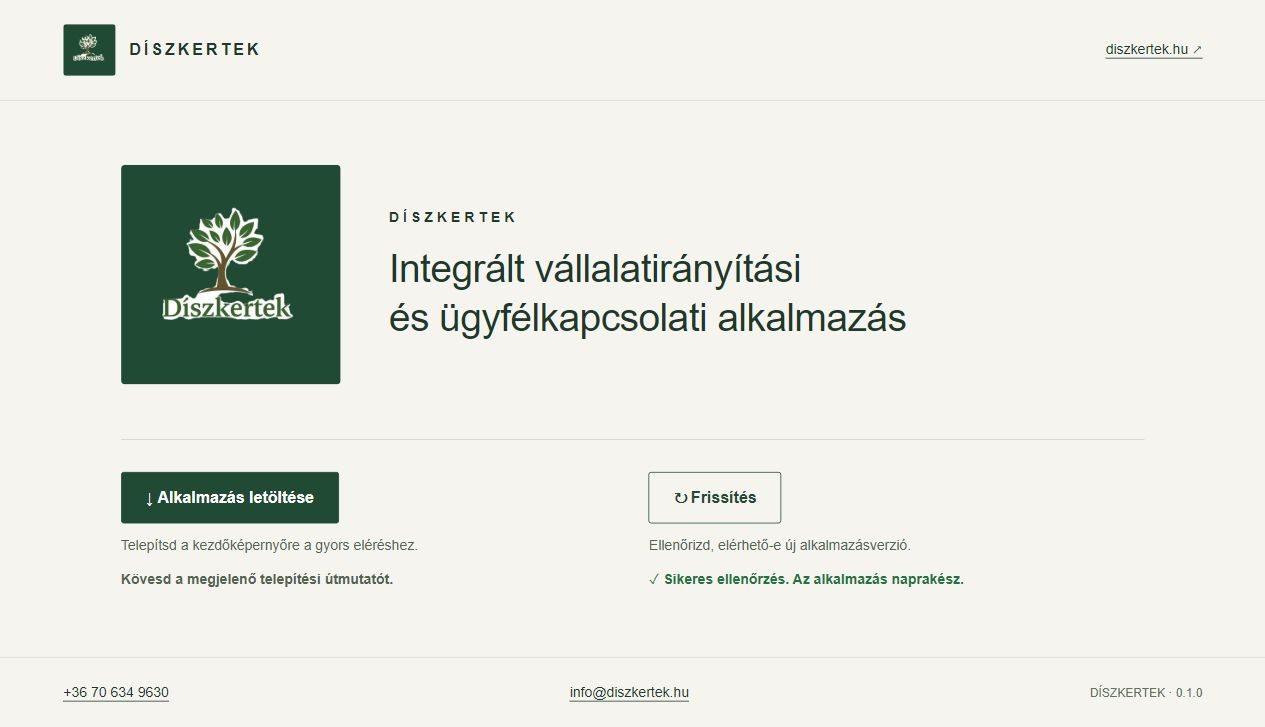
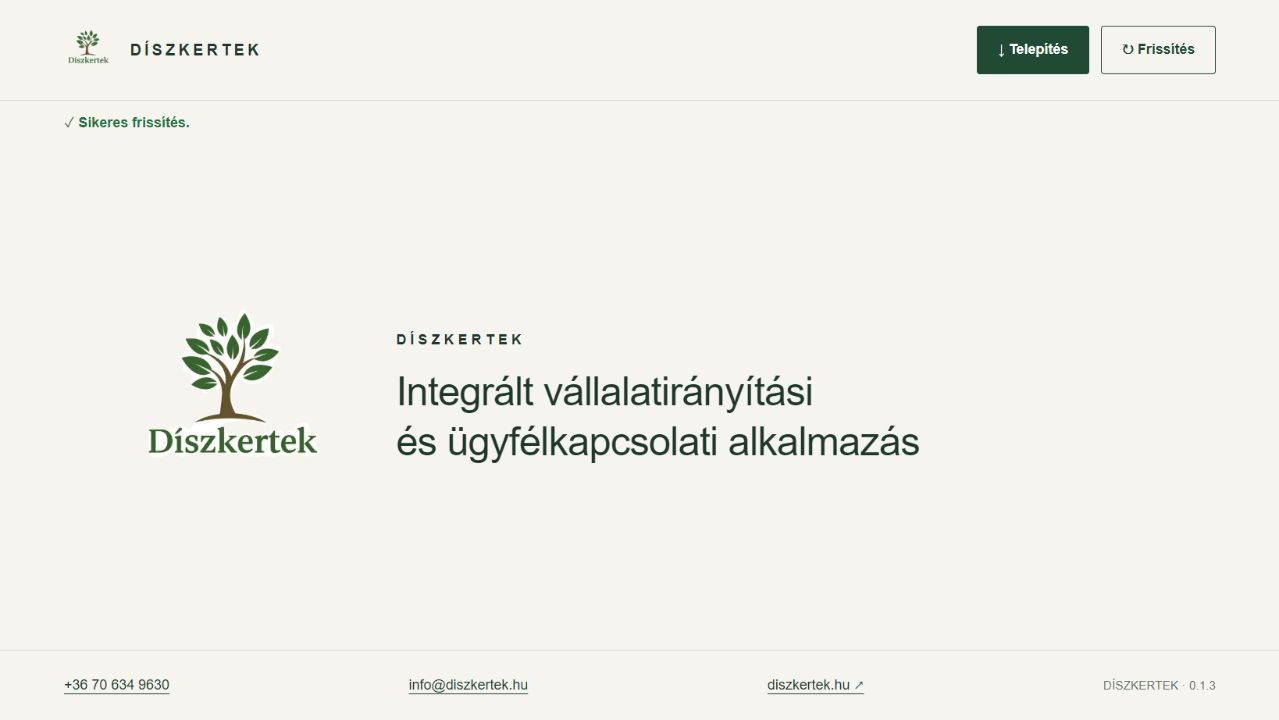
Publikus ERP 0.1.3 frissítésellenőrzés dokumentálása

diff --git a/docs/fejlesztesi-naplo.md b/docs/fejlesztesi-naplo.md
@@ -101,3 +101,5 @@ A README a nem fejlesztő olvasónak is érthető belépési pont. A részletes 
 - Ellenőrzés: sikeres TypeScript-build, 14 célzott PWA-teszt, helyi böngészőben 0.1.3 és sikeres frissítésellenőrzés, konzolhiba nélkül.
 - A natív Chrome/Edge telepítés végső próbája még nem igazolt. Az azonosítóhiba javítása és a böngésző tényleges telepítési eredménye külön ellenőrzési pont.
 - A jelen változtatás kizárólag az ERP fájljait érinti; másik app, node_modules vagy adatbázis nem változott. A korábban megkezdett adatbázis-fejlesztés szünetel.
+
+- Publikus ellenőrzés: a GitHub Pages a6c9eb4 kiadása sikeresen közzétéve. A valódi ERP-webcímen betöltődött a 0.1.3; a Frissítés gomb után újratöltés és zöld pipás Sikeres frissítés jelzés látszott. Konzolhiba nem jelentkezett. A README asztali képernyőképe erre az állapotra frissült.
